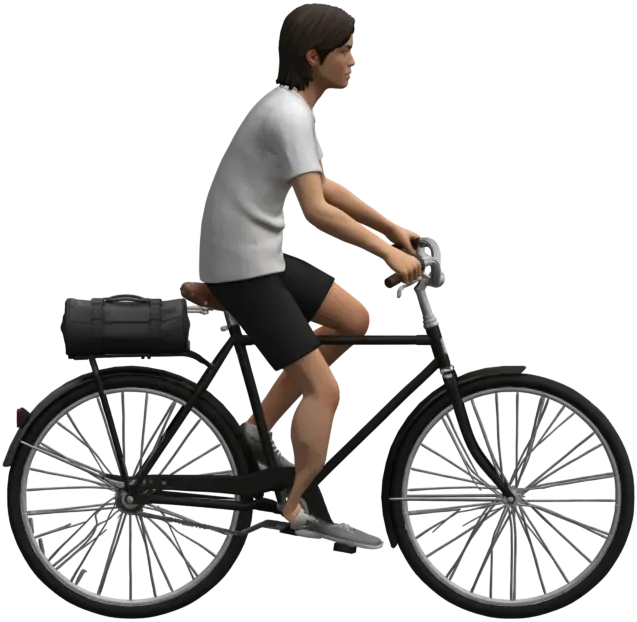
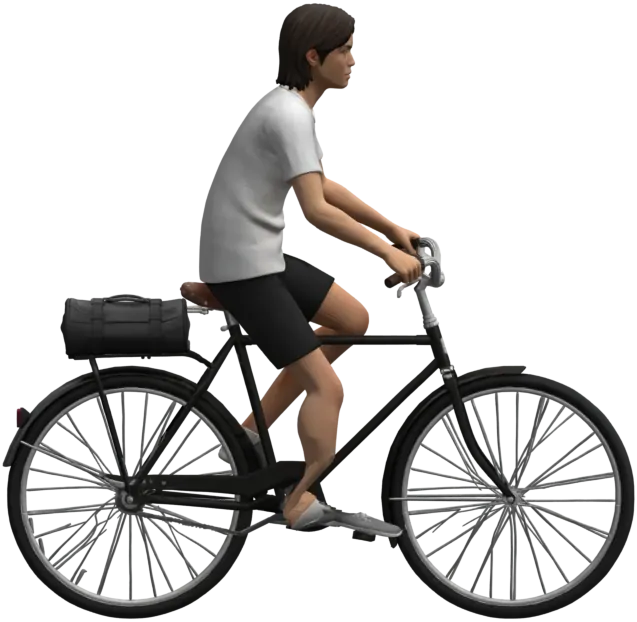
Légende : pédalage plus ample (manivelle 50 px au lieu de 34, proche d'un vrai vélo)
À la taille du jeu, la manivelle du modèle (0,29 du rayon de roue) ne
faisait presque pas bouger les jambes ; un vélo réel est près de 0,45.

diff --git a/src/components/screens/LegendeCinematiques.tsx b/src/components/screens/LegendeCinematiques.tsx
@@ -29,7 +29,7 @@ import { cumulus, chargerLesCumulus, poserCumulus } from '@/game/legende/nuages'
 import { citeCeleste, W as CITE_W, AX as CITE_AX, AY as CITE_AY } from '@/game/legende/cite-celeste';
 import { mot, dans, nombre } from '@/game/legende/mots';
 import { fusee } from './LegendeKarman';
-import { vehicule as spriteVehicule, prechargerVehicules, veloPedale, NB_PEDALE, PEDALE_A0, type NomVehicule } from '@/game/legende/vehicules';
+import { vehicule as spriteVehicule, prechargerVehicules, veloPedale, NB_PEDALE, PEDALE_A0, PEDALE_MANIVELLE, type NomVehicule } from '@/game/legende/vehicules';
 import { PORTRAITS, TEINTES } from './legende-commun';
 
 type Rgb = [number, number, number];
@@ -150,7 +150,7 @@ function poserVehicule(ctx: CanvasRenderingContext2D, nom: NomVehicule, x: numbe
  * sans glisser — elle s'arrete quand le velo s'arrete.
  */
 const VELO = { w: 637, h: 622, roues: [[127, 493], [510, 493]] as const, r: 118, pedalier: [301, 508] as const, manivelle: 34 };
-function animerVelo(ctx: CanvasRenderingContext2D, x: number, yPied: number, hPx: number, X: number, manivelleEcran?: number) {
+function animerVelo(ctx: CanvasRenderingContext2D, x: number, yPied: number, hPx: number, X: number, manivelleEcran?: number, manivellePx: number = VELO.manivelle) {
   const s = spriteVehicule('velo', 'profil');
   if (!s || Math.abs(s.w - VELO.w) > 2) return;
   const k = hPx / s.h, ox = x - s.w * k / 2, oy = yPied - s.h * k;
@@ -180,7 +180,7 @@ function animerVelo(ctx: CanvasRenderingContext2D, x: number, yPied: number, hPx
   }
   // le pedalier : deux manivelles opposees et leurs pedales (un tour de
   // pedale pour 2,4 m environ, a peu pres deux tours de roue)
-  const px = ox + VELO.pedalier[0] * k, py = oy + VELO.pedalier[1] * k, L = VELO.manivelle * k,
+  const px = ox + VELO.pedalier[0] * k, py = oy + VELO.pedalier[1] * k, L = manivellePx * k,
         a = manivelleEcran ?? ang * 0.55;
   ctx.strokeStyle = '#18181C'; ctx.lineWidth = Math.max(2, 7 * k); ctx.lineCap = 'round';
   ctx.beginPath(); ctx.moveTo(px - Math.cos(a) * L, py - Math.sin(a) * L); ctx.lineTo(px + Math.cos(a) * L, py + Math.sin(a) * L); ctx.stroke();
@@ -880,7 +880,7 @@ function peintreRoute(rang: number, o: { local?: boolean; duree?: number; depart
       const fr = veloPedale(i);
       if (fr) {
         ctx.drawImage(fr.im, xv - fr.w * kV / 2, yP - fr.h * kV, fr.w * kV, fr.h * kV);
-        animerVelo(ctx, xv, yP, hP, X, -PEDALE_A0 + (Math.PI * 2 * i) / NB_PEDALE);
+        animerVelo(ctx, xv, yP, hP, X, -PEDALE_A0 + (Math.PI * 2 * i) / NB_PEDALE, PEDALE_MANIVELLE);
         pedale = true;
       }
     }

diff --git a/src/game/legende/vehicules.ts b/src/game/legende/vehicules.ts
@@ -43,9 +43,11 @@ export function vehicule(nom: NomVehicule, vue: Vue): Sprite | null {
  * pedale proche dans l'image 0 (radians, z vers le haut) ; l'image i la tourne
  * de 2*pi*i/n dans le sens des aiguilles d'une montre a l'ecran.
  */
-const PEDALE = (MANIFESTE as any).velo?.pedale as { f: string[]; w: number; h: number; ax: number; ay: number; a0: number } | undefined;
+const PEDALE = (MANIFESTE as any).velo?.pedale as { f: string[]; w: number; h: number; ax: number; ay: number; a0: number; manivelle?: number } | undefined;
 export const NB_PEDALE = PEDALE?.f.length ?? 0;
 export const PEDALE_A0 = PEDALE?.a0 ?? 0;
+/** La longueur des manivelles du rendu, en px de l'image (34 = celle du modele). */
+export const PEDALE_MANIVELLE = PEDALE?.manivelle ?? 34;
 export function veloPedale(i: number): Sprite | null {
   if (!PEDALE || !NB_PEDALE) return null;
   const f = PEDALE.f[((i % NB_PEDALE) + NB_PEDALE) % NB_PEDALE];

diff --git a/tools/blender/decors/legende_velo_pedale.py b/tools/blender/decors/legende_velo_pedale.py
@@ -37,7 +37,7 @@ def arguments():
     def val(k, d=None):
         return a[a.index(k) + 1] if k in a else d
     return dict(source=val('--source'), images=int(val('--images', '8')), diag=val('--diag'),
-                haut=int(val('--haut', '640')))
+                haut=int(val('--haut', '640')), manivelle=float(val('--manivelle', '50')))
 
 
 def main():
@@ -58,7 +58,12 @@ def main():
     R = 118.0 / 622.0
     roues = [(px(127), hz), (px(510), hz)]
     pedalier = Vector((px(301), 0, 1.0 - 508.0 / 622.0))
-    manivelle = 34.0 / 622.0
+    # la manivelle du modele mesure 34 px pour une roue de 118 px de rayon
+    # (0,29) ; un vrai velo est pres de 0,45 (17 cm pour une roue de 70 cm) :
+    # a la taille du jeu, 34 px ne faisaient presque pas bouger les jambes.
+    # Le tour est donc rendu a 50 px par defaut (--manivelle), pedalier dessine
+    # par le jeu a la meme longueur (manifeste : `manivelle`).
+    manivelle = A['manivelle'] / 622.0
     # le plan du cadre : la profondeur mediane des points du cadre (sous la selle, hors roues)
     dans_roue = np.zeros(len(co), bool)
     for (cx, cz) in roues:
@@ -143,7 +148,8 @@ def main():
         noms.append(nom)
     print('IMAGES %d : %dx%d' % (len(noms), x1 - x0, y1 - y0))
     entree['pedale'] = {'f': noms, 'w': int(x1 - x0), 'h': int(y1 - y0), 'ax': round(float(pied[0] - x0), 1),
-                        'ay': round(float(pied[1] - y0), 1), 'a0': round(a0_pres, 4)}
+                        'ay': round(float(pied[1] - y0), 1), 'a0': round(a0_pres, 4),
+                        'manivelle': A['manivelle']}
     json.dump(man, open(F_MAN, 'w'), indent=1, sort_keys=True)
 
 
